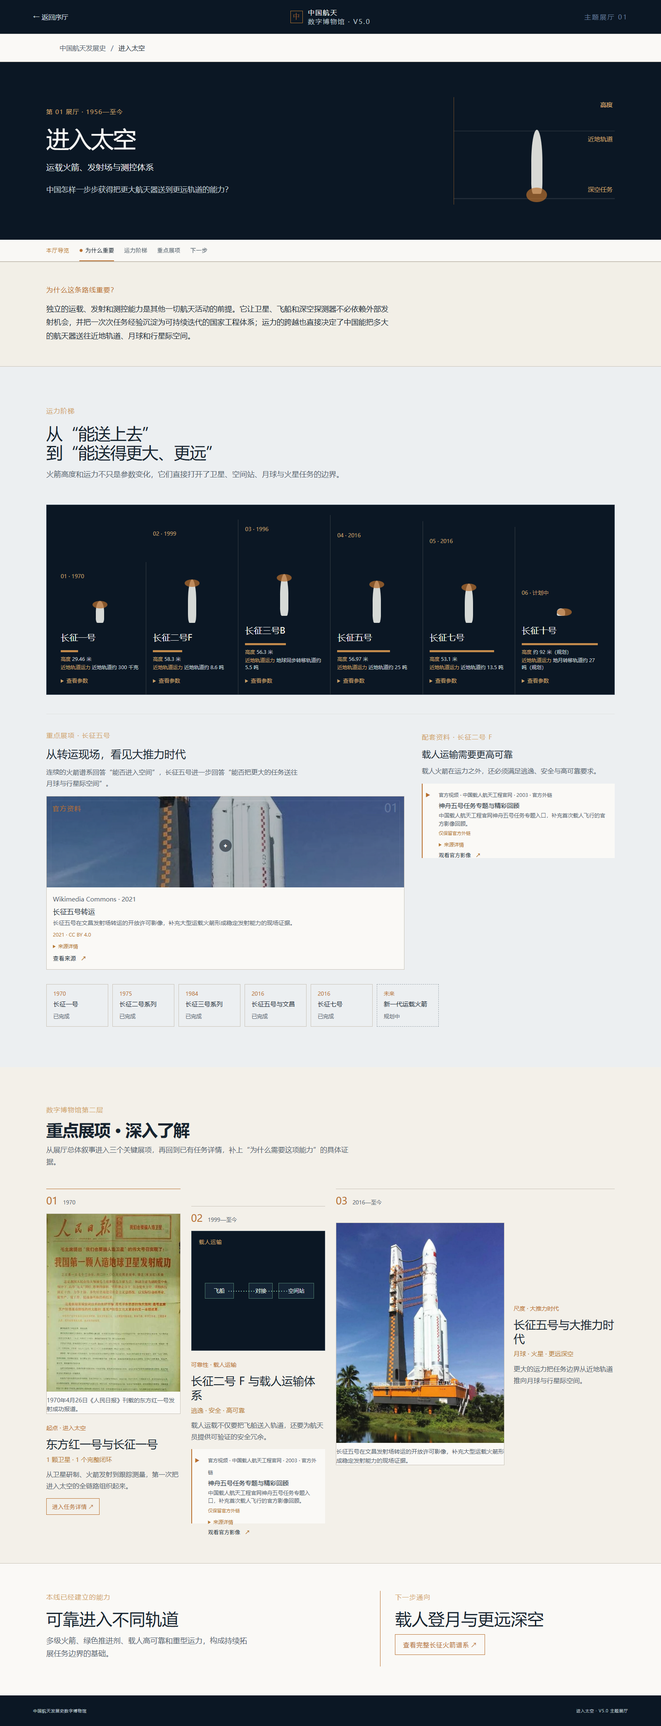
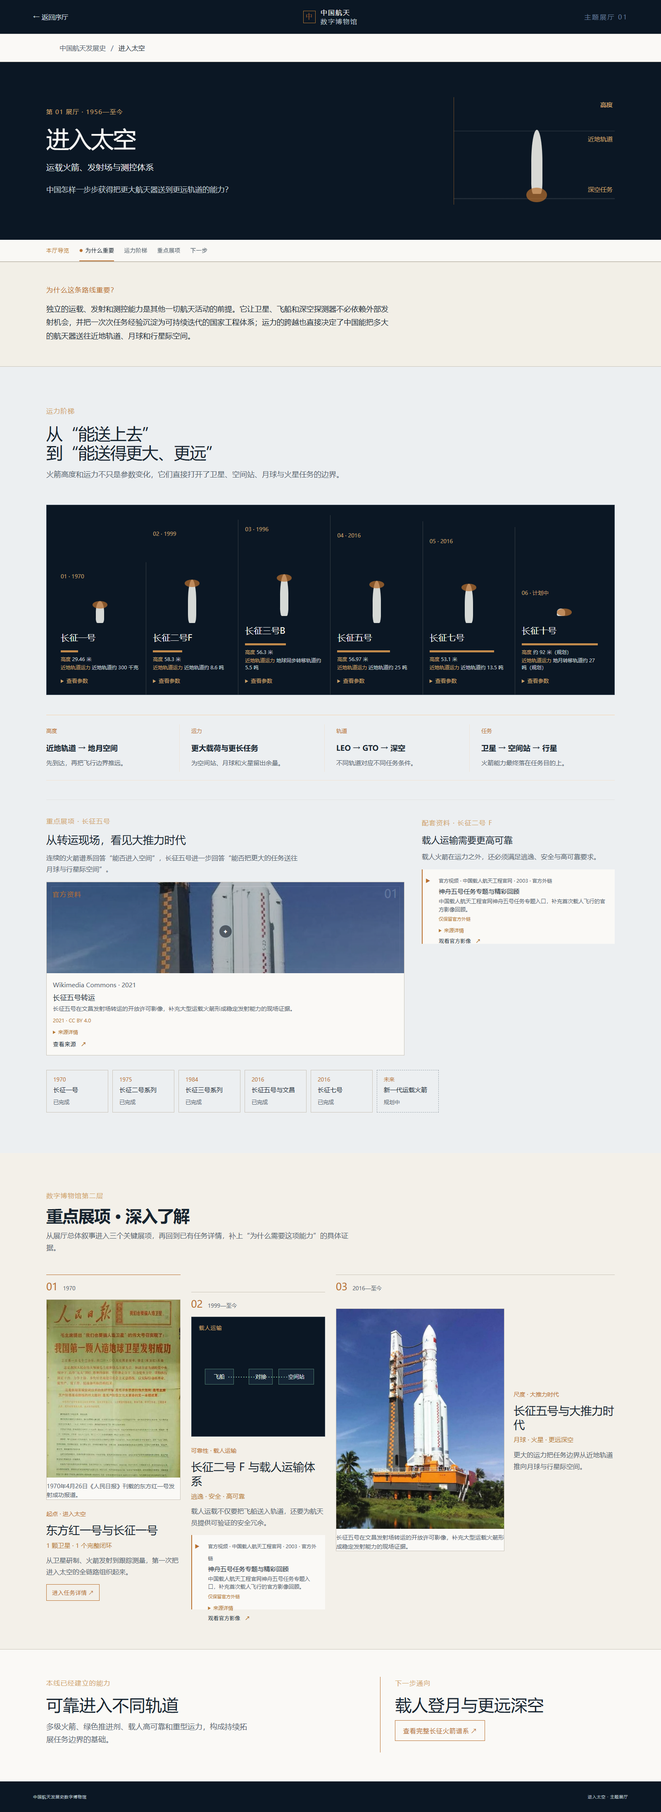
V5.0-RC3.1-PC：策展与内容深化

diff --git a/src/components/GrandHallStories/LaunchCapabilityStory.jsx b/src/components/GrandHallStories/LaunchCapabilityStory.jsx
@@ -12,10 +12,24 @@ export default function LaunchCapabilityStory({ hall, nodes, onOpenMission }) {
   const selected = featuredRockets.map((name) => rockets.find((rocket) => rocket.name === name)).filter(Boolean)
   return (
     <div className="story-page story-page--launch">
-      <header className="story-hero story-hero--launch" id="story-overview"><div className="story-hero-copy title-safe-area"><span className="section-kicker">第 {hall.index} 展厅 · {hall.period}</span><h1>{hall.name}</h1><p className="story-subtitle">{hall.subtitle}</p><p className="story-question">中国怎样一步步获得把更大航天器送到更远轨道的能力？</p></div><div className="story-hero-visual launch-hero-visual" aria-label="火箭高度与上升示意"><i /><b>高度</b><span>近地轨道</span><em>深空任务</em></div></header>
+      <header className="story-hero story-hero--launch" id="story-overview">
+        <div className="story-hero-copy title-safe-area"><span className="section-kicker">第 {hall.index} 展厅 · {hall.period}</span><h1>{hall.name}</h1><p className="story-subtitle">{hall.subtitle}</p><p className="story-question">中国怎样一步步获得把更大航天器送到更远轨道的能力？</p></div>
+        <div className="story-hero-visual launch-hero-visual" aria-label="火箭高度与上升示意"><i /><b>高度</b><span>近地轨道</span><em>深空任务</em></div>
+      </header>
       <StoryTour items={[{ id: 'story-why', label: '为什么重要' }, { id: 'launch-core', label: '运力阶梯' }, { id: 'deep-dive', label: '重点展项' }, { id: 'story-next', label: '下一步' }]} />
       <section className="story-why" id="story-why"><span className="section-kicker">为什么这条路线重要？</span><p>{hall.hallWhyItMatters}</p></section>
-      <section className="grand-story grand-story--launch" id="launch-core"><div className="story-heading"><span className="section-kicker">运力阶梯</span><h2>从“能送上去”<br />到“能送得更大、更远”</h2><p>火箭高度和运力不只是参数变化，它们直接打开了卫星、空间站、月球与火星任务的边界。</p></div><div className="launch-ladder">{selected.map((rocket, index) => <article className={`launch-step launch-step-${index + 1}`} key={rocket.name}><span>{String(index + 1).padStart(2, '0')} · {rocket.firstFlight}</span><div className="rocket-silhouette" style={{ '--rocket-height': `${Math.max(44, Math.min(175, Number.parseFloat(rocket.height) * 1.8))}px` }} aria-hidden="true" /><h3>{rocket.name}</h3><div className="payload-bar" style={{ '--payload-width': `${22 + index * 15}%` }} aria-label={`运力 ${rocket.payload}`} /><div className="launch-step-metrics" aria-label={`${rocket.name}关键参数`}><span className="launch-step-height">{rocket.height}</span><span className="launch-step-payload">{rocket.payload}</span></div><details className="launch-step-details"><summary>查看参数</summary><dl><div><dt>高度</dt><dd>{rocket.height}</dd></div><div><dt>运力</dt><dd>{rocket.payload}</dd></div><div><dt>代表任务</dt><dd>{rocket.missions.join(' · ')}</dd></div></dl></details></article>)}</div><div className="launch-support-media" id="launch-evidence"><div className="launch-support-copy"><span className="section-kicker">重点展项 · 长征五号</span><h3>从转运现场，看见大推力时代</h3><p>连续的火箭谱系回答“能否进入空间”，长征五号进一步回答“能否把更大的任务送往月球与行星际空间”。</p><StoryMedia ids={['open-long-march-5-rollout-2021']} mode="feature" color={hall.color} /></div><div className="launch-support-copy launch-support-copy--compact"><span className="section-kicker">配套资料 · 长征二号 F</span><h3>载人运输需要更高可靠</h3><p>载人火箭在运力之外，还必须满足逃逸、安全与高可靠要求。</p><StoryMedia ids={['media-human-shenzhou5-flight-review']} mode="compact" color={hall.color} /></div></div><div className="story-node-strip">{nodes.filter((node) => ['长征一号', '长征二号系列', '长征三号系列', '长征五号与文昌', '长征七号', '新一代运载火箭'].includes(node.name)).map((node) => <span className={`story-node story-node--${node.status}`} key={node.id}><b>{node.year}</b>{node.name}<em>{node.status === 'planned' ? '规划中' : '已完成'}</em></span>)}</div></section>
+      <section className="grand-story grand-story--launch" id="launch-core">
+        <div className="story-heading"><span className="section-kicker">运力阶梯</span><h2>从“能送上去”<br />到“能送得更大、更远”</h2><p>火箭高度和运力不只是参数变化，它们直接打开了卫星、空间站、月球与火星任务的边界。</p></div>
+        <div className="launch-ladder">{selected.map((rocket, index) => <article className={`launch-step launch-step-${index + 1}`} key={rocket.name}><span>{String(index + 1).padStart(2, '0')} · {rocket.firstFlight}</span><div className="rocket-silhouette" style={{ '--rocket-height': `${Math.max(44, Math.min(175, Number.parseFloat(rocket.height) * 1.8))}px` }} aria-hidden="true" /><h3>{rocket.name}</h3><div className="payload-bar" style={{ '--payload-width': `${22 + index * 15}%` }} aria-label={`运力 ${rocket.payload}`} /><div className="launch-step-metrics" aria-label={`${rocket.name}关键参数`}><span className="launch-step-height">{rocket.height}</span><span className="launch-step-payload">{rocket.payload}</span></div><details className="launch-step-details"><summary>查看参数</summary><dl><div><dt>高度</dt><dd>{rocket.height}</dd></div><div><dt>运力</dt><dd>{rocket.payload}</dd></div><div><dt>代表任务</dt><dd>{rocket.missions.join(' · ')}</dd></div></dl></details></article>)}</div>
+        <div className="launch-capability-chain" aria-label="运载能力如何改变任务边界">
+          <article><span>高度</span><strong>近地轨道 → 地月空间</strong><p>先到达，再把飞行边界推远。</p></article>
+          <article><span>运力</span><strong>更大载荷与更长任务</strong><p>为空间站、月球和火星留出余量。</p></article>
+          <article><span>轨道</span><strong>LEO → GTO → 深空</strong><p>不同轨道对应不同任务条件。</p></article>
+          <article><span>任务</span><strong>卫星 → 空间站 → 行星</strong><p>火箭能力最终落在任务目的上。</p></article>
+        </div>
+        <div className="launch-support-media" id="launch-evidence"><div className="launch-support-copy"><span className="section-kicker">重点展项 · 长征五号</span><h3>从转运现场，看见大推力时代</h3><p>连续的火箭谱系回答“能否进入空间”，长征五号进一步回答“能否把更大的任务送往月球与行星际空间”。</p><StoryMedia ids={['open-long-march-5-rollout-2021']} mode="feature" color={hall.color} /></div><div className="launch-support-copy launch-support-copy--compact"><span className="section-kicker">配套资料 · 长征二号 F</span><h3>载人运输需要更高可靠</h3><p>载人火箭在运力之外，还必须满足逃逸、安全与高可靠要求。</p><StoryMedia ids={['media-human-shenzhou5-flight-review']} mode="compact" color={hall.color} /></div></div>
+        <div className="story-node-strip">{nodes.filter((node) => ['长征一号', '长征二号系列', '长征三号系列', '长征五号与文昌', '长征七号', '新一代运载火箭'].includes(node.name)).map((node) => <span className={`story-node story-node--${node.status}`} key={node.id}><b>{node.year}</b>{node.name}<em>{node.status === 'planned' ? '规划中' : '已完成'}</em></span>)}</div>
+      </section>
       <DeepDiveSection variant="launch" layout="scale" hall={hall} onOpenMission={onOpenMission} items={[{ year: '1970', label: '起点 · 进入太空', title: '东方红一号与长征一号', metric: '1 颗卫星 · 1 个完整闭环', description: '从卫星研制、火箭发射到跟踪测量，第一次把进入太空的全链路组织起来。', assetId: 'curated-dongfanghong-1-news-1970', missionId: 'origin-one' }, { year: '1999—至今', label: '可靠性 · 载人运输', title: '长征二号 F 与载人运输体系', metric: '逃逸 · 安全 · 高可靠', description: '载人运载不仅要把飞船送入轨道，还要为航天员提供可验证的安全冗余。', diagram: 'rendezvous', diagramLabel: '载人运输', mediaIds: ['media-human-shenzhou5-flight-review'] }, { year: '2016—至今', label: '尺度 · 大推力时代', title: '长征五号与大推力时代', metric: '月球 · 火星 · 更远深空', description: '更大的运力把任务边界从近地轨道推向月球与行星际空间。', assetId: 'open-long-march-5-rollout-2021' }]} />
       <section className="story-tail story-tail--launch" id="story-next"><div><span className="section-kicker">本线已经建立的能力</span><h2>可靠进入不同轨道</h2><p>多级火箭、绿色推进剂、载人高可靠和重型运力，构成持续拓展任务边界的基础。</p></div><div className="story-tail-link"><span className="section-kicker">下一步通向</span><h2>载人登月与更远深空</h2><button type="button" onClick={() => setShowFullGallery((value) => !value)}>{showFullGallery ? '收起完整火箭谱系' : '查看完整长征火箭谱系'} ↗</button></div></section>
       {showFullGallery ? <div className="story-gallery-drawer"><RocketGallery /></div> : null}

diff --git a/src/components/GrandHallStories/PlanetaryScaleStory.jsx b/src/components/GrandHallStories/PlanetaryScaleStory.jsx
@@ -11,7 +11,13 @@ export default function PlanetaryScaleStory({ hall, nodes, missions, onOpenMissi
       <header className="story-hero story-hero--planetary" id="story-overview"><div className="story-hero-copy title-safe-area"><span className="section-kicker">第 {hall.index} 展厅 · {hall.period}</span><h1>{hall.name}</h1><p className="story-subtitle">{hall.subtitle}</p><p className="story-question">中国如何从地月空间，第一次跨入真正的行星际探测？</p></div><div className="story-hero-visual planetary-hero-visual" aria-label="地球到火星的尺度示意"><i /><span>地球</span><b>火星</b></div></header>
       <StoryTour items={[{ id: 'story-why', label: '为什么重要' }, { id: 'planetary-core', label: '行星际尺度' }, { id: 'deep-dive', label: '绕 · 落 · 巡' }, { id: 'story-next', label: '下一步' }]} />
       <section className="story-why" id="story-why"><span className="section-kicker">为什么这条路线重要？</span><p>{hall.hallWhyItMatters}</p></section>
-      <section className="grand-story grand-story--planetary" id="planetary-core"><div className="story-heading"><span className="section-kicker">行星际尺度</span><h2>离开地球，穿越<br />七个月级的行星际飞行</h2><p>这是一条概念尺度示意，非真实比例：距离拉远，通信时延增加，任务需要更多自主导航和环境判断。</p></div><div className="planetary-distance" aria-label="从地球到火星的概念距离示意"><div className="distance-earth"><i />地球</div><div className="distance-moon"><span />月球轨道</div><div className="distance-flight"><b>约七个月级</b><small>地火转移 · 中途修正 · 深空测控</small></div><div className="distance-mars"><i />火星</div><div className="distance-beyond">更远深空</div></div><div className="planetary-distance-note"><span>为什么不是直线？</span><p>行星持续运动，任务要等待发射窗口并沿转移轨道飞行；距离拉远后，指令往返时延也让祝融号必须自主判断。</p></div><div className="planetary-anchor-grid" id="planetary-evidence"><article><div><AssetMedia asset={getAssetById('curated-tianwen-206aa3f3bc23')} label="天问一号与火星合影" /><small className="story-media-meta">维基共享资源 / 中国国家航天局供图 · 2021 · 真实任务影像</small></div><div><span>绕 · 火星捕获</span><h3>天问一号</h3><p>完成从地火转移到火星环绕的深空导航。</p><StoryMedia ids={['open-tianwen1-launch-2020']} mode="feature" color={hall.color} /></div></article><article><div><AssetMedia asset={getAssetById('curated-tianwen-16526f52a3ea')} label="祝融号与着陆平台" /><small className="story-media-meta">公开任务影像 · 2021 · 火星表面影像</small></div><div><span>落 · 巡 · 火星表面工作</span><h3>祝融号</h3><p>在乌托邦平原着陆并开展巡视探测。</p><StoryMedia ids={['media-planetary-tianwen-landing-series']} mode="inline" color={hall.color} /><StoryMedia ids={['media-zhurong-motion']} mode="inline" color={hall.color} /></div></article></div>{mission ? <button className="story-mission-link" type="button" onClick={() => onOpenMission(mission.id)}>进入天问一号任务现场 ↗</button> : null}<div className="planetary-future">{nodes.filter((node) => node.status === 'planned').map((node) => <span className="story-node story-node--planned" key={node.id}><b>{node.year}</b>{node.name}<em>规划中</em></span>)}</div></section>
+      <section className="grand-story grand-story--planetary" id="planetary-core">
+        <div className="story-heading"><span className="section-kicker">行星际尺度</span><h2>离开地球，穿越<br />七个月级的行星际飞行</h2><p>这是一条概念尺度示意，非真实比例：距离拉远，通信时延增加，任务需要更多自主导航和环境判断。</p></div>
+        <div className="planetary-distance" aria-label="从地球到火星的概念距离示意"><div className="distance-earth"><i />地球</div><div className="distance-moon"><span />月球轨道</div><div className="distance-flight"><b>约七个月级</b><small>地火转移 · 中途修正 · 深空测控</small></div><div className="distance-mars"><i />火星</div><div className="distance-beyond">更远深空</div></div>
+        <div className="planetary-distance-note"><span>为什么不是直线？</span><p>行星持续运动，任务要等待发射窗口并沿转移轨道飞行；距离拉远后，指令往返时延也让祝融号必须自主判断。</p></div>
+        <div className="planetary-engineering-chain" aria-label="距离带来的三种工程变化"><article><span>发射窗口</span><strong>等待合适的几何位置</strong><p>任务出发时间由地球与火星的相对位置决定。</p></article><article><span>通信时延</span><strong>指令不能实时往返</strong><p>地面需要把计划、规则和边界提前交给探测器。</p></article><article><span>自主运行</span><strong>在现场完成判断</strong><p>导航、避障、状态管理成为任务本身的一部分。</p></article></div>
+        <div className="planetary-anchor-grid" id="planetary-evidence"><article><div><AssetMedia asset={getAssetById('curated-tianwen-206aa3f3bc23')} label="天问一号与火星合影" /><small className="story-media-meta">维基共享资源 / 中国国家航天局供图 · 2021 · 真实任务影像</small></div><div><span>绕 · 火星捕获</span><h3>天问一号</h3><p>完成从地火转移到火星环绕的深空导航。</p><StoryMedia ids={['open-tianwen1-launch-2020']} mode="feature" color={hall.color} /></div></article><article><div><AssetMedia asset={getAssetById('curated-tianwen-16526f52a3ea')} label="祝融号与着陆平台" /><small className="story-media-meta">公开任务影像 · 2021 · 火星表面影像</small></div><div><span>落 · 巡 · 火星表面工作</span><h3>祝融号</h3><p>在乌托邦平原着陆并开展巡视探测。</p><StoryMedia ids={['media-planetary-tianwen-landing-series']} mode="inline" color={hall.color} /><StoryMedia ids={['media-zhurong-motion']} mode="inline" color={hall.color} /></div></article></div>{mission ? <button className="story-mission-link" type="button" onClick={() => onOpenMission(mission.id)}>进入天问一号任务现场 ↗</button> : null}<div className="planetary-future">{nodes.filter((node) => node.status === 'planned').map((node) => <span className="story-node story-node--planned" key={node.id}><b>{node.year}</b>{node.name}<em>规划中</em></span>)}</div>
+      </section>
       <DeepDiveSection variant="planetary" layout="distance" hall={hall} onOpenMission={onOpenMission} items={[{ year: '2020—2021', label: '绕 · 地火转移', title: '天问一号：绕、着、巡', metric: '一次任务完成三步', description: '在更远距离和更长时延条件下，完成转移、捕获、着陆与巡视的连续任务。', assetId: 'curated-tianwen-206aa3f3bc23', mediaIds: ['media-planetary-tianwen-landing-series'], missionId: 'tianwen' }, { year: '2021', label: '巡 · 火星表面工作', title: '祝融号', metric: '自主巡视 · 环境探测', description: '火星车需要在通信间歇中完成移动、避障、观测和状态判断。', assetId: 'curated-tianwen-16526f52a3ea', mediaIds: ['media-zhurong-motion'] }, { year: '下一阶段', label: '距离 · 自主 · 深空测控', title: '下一阶段行星际探索', metric: '更远目标 · 更长等待', description: '小行星、火星采样返回和更远太阳系任务，将把自主导航与深空测控推向更长时间尺度。', diagram: 'deep-space', diagramLabel: '从地月到行星际', mediaIds: ['official-tianwen-science-images-2021'] }]} />
       <section className="story-tail story-tail--planetary" id="story-next"><div><span className="section-kicker">本线已经建立的能力</span><h2>一次任务完成绕、落、巡</h2></div><div><span className="section-kicker">下一站在哪里</span><p>小行星、火星采样返回，以及更远的太阳系。</p></div></section>
     </div>

diff --git a/src/components/GrandHallStories/LunarExplorationStory.jsx b/src/components/GrandHallStories/LunarExplorationStory.jsx
@@ -13,7 +13,13 @@ export default function LunarExplorationStory({ hall, nodes, missions, onOpenMis
       <header className="story-hero story-hero--lunar" id="story-overview"><div className="story-hero-copy title-safe-area"><span className="section-kicker">第 {hall.index} 展厅 · {hall.period}</span><h1>{hall.name}</h1><p className="story-subtitle">{hall.subtitle}</p><p className="story-question">中国怎样一步一步掌握月球探测能力？</p></div><div className="story-hero-visual lunar-hero-visual" aria-label="地球与月球示意"><i>地球</i><span /><b>月球</b></div></header>
       <StoryTour items={[{ id: 'story-why', label: '为什么重要' }, { id: 'lunar-core', label: '绕 · 落 · 回' }, { id: 'deep-dive', label: '月背与返回' }, { id: 'story-next', label: '下一步' }]} />
       <section className="story-why" id="story-why"><span className="section-kicker">为什么这条路线重要？</span><p>{hall.hallWhyItMatters}</p></section>
-      <section className="grand-story grand-story--lunar" id="lunar-core"><div className="story-heading"><span className="section-kicker">主能力路线</span><h2>绕 → 落 → 回，<br />月背从侧面突破</h2><p>月球探测不是四个并列目标，而是一条逐步增加难度的能力链；月背探测则在中继通信和自主控制上打开新的侧支。</p></div><div className="lunar-main-route">{stages.map(([stage, title, year, description, mediaId]) => <article key={stage}><b>{stage}</b><span /><time>{year}</time><h3>{title}</h3><p>{description}</p>{mediaId ? <StoryMedia ids={[mediaId]} mode="inline" color={hall.color} /> : null}</article>)}<div className="lunar-side-branch" id="lunar-evidence"><span>月背突破</span><strong>嫦娥四号 · 首次月背软着陆</strong><StoryMedia ids={['media-lunar-change6-sample-process']} mode="inline" color={hall.color} /><strong>嫦娥六号 · 首次月背采样返回</strong></div></div><div className="lunar-images"><div><AssetMedia asset={getAssetById('collected-chang-e-350bd2395f82')} label="嫦娥四号月球背面全景影像" /><small className="story-media-meta">公开任务影像 · 2019 · 月背全景</small></div><div><AssetMedia asset={getAssetById('asset-change-6')} label="嫦娥六号月背采样任务现场" /><small className="story-media-meta">中国国家航天局 · 2024 · 真实任务影像</small></div></div><div className="lunar-future-path"><span>2024</span><b>嫦娥六号</b><i /><span>未来</span><strong>嫦娥七号 · 嫦娥八号 · 国际月球科研站</strong></div>{mission ? <button className="story-mission-link" type="button" onClick={() => onOpenMission(mission.id)}>进入嫦娥任务档案 ↗</button> : null}<div className="story-node-strip">{nodes.filter((node) => ['嫦娥一号', '嫦娥三号', '嫦娥四号', '嫦娥五号', '嫦娥六号'].includes(node.name)).map((node) => <span className="story-node" key={node.id}><b>{node.year}</b>{node.name}</span>)}</div></section>
+      <section className="grand-story grand-story--lunar" id="lunar-core">
+        <div className="story-heading"><span className="section-kicker">主能力路线</span><h2>绕 → 落 → 回，<br />月背从侧面突破</h2><p>月球探测不是四个并列目标，而是一条逐步增加难度的能力链；月背探测则在中继通信和自主控制上打开新的侧支。</p></div>
+        <div className="lunar-main-route">{stages.map(([stage, title, year, description, mediaId]) => <article key={stage}><b>{stage}</b><span /><time>{year}</time><h3>{title}</h3><p>{description}</p>{mediaId ? <StoryMedia ids={[mediaId]} mode="inline" color={hall.color} /> : null}</article>)}<div className="lunar-side-branch" id="lunar-evidence"><span>月背突破</span><strong>嫦娥四号 · 首次月背软着陆</strong><StoryMedia ids={['media-lunar-change6-sample-process']} mode="inline" color={hall.color} /><strong>嫦娥六号 · 首次月背采样返回</strong></div></div>
+        <div className="lunar-sample-note"><span>2024 · 嫦娥六号</span><strong>从月球背面带回 1935.3 克样品</strong><p>月背没有直视地球的通信条件，鹊桥中继、采样封装、月面起飞和月轨交会共同完成了这次返回。</p><a href="https://www.cnsa.gov.cn/n6758823/n6758844/n10518102/n10518157/c10570691/content.html" target="_blank" rel="noreferrer">中国国家航天局 · 任务资料 ↗</a></div>
+        <div className="lunar-images"><div><AssetMedia asset={getAssetById('collected-chang-e-350bd2395f82')} label="嫦娥四号月球背面全景影像" /><small className="story-media-meta">公开任务影像 · 2019 · 月背全景</small></div><div><AssetMedia asset={getAssetById('asset-change-6')} label="嫦娥六号月背采样任务现场" /><small className="story-media-meta">中国国家航天局 · 2024 · 真实任务影像</small></div></div>
+        <div className="lunar-future-path"><span>2024</span><b>嫦娥六号</b><i /><span>未来</span><strong>嫦娥七号 · 嫦娥八号 · 国际月球科研站</strong></div>{mission ? <button className="story-mission-link" type="button" onClick={() => onOpenMission(mission.id)}>进入嫦娥任务档案 ↗</button> : null}<div className="story-node-strip">{nodes.filter((node) => ['嫦娥一号', '嫦娥三号', '嫦娥四号', '嫦娥五号', '嫦娥六号'].includes(node.name)).map((node) => <span className="story-node" key={node.id}><b>{node.year}</b>{node.name}</span>)}</div>
+      </section>
       <DeepDiveSection variant="lunar" layout="route" hall={hall} onOpenMission={onOpenMission} items={[{ year: '2007', label: '绕 · 获取全球月面', title: '嫦娥一号：绕', metric: '进入绕月轨道', description: '先把月球看完整，建立地月转移、月球捕获和绕月遥感的第一段能力。', assetId: 'collected-chang-e-b13ef29ef990', missionId: 'chang-e', mediaIds: ['media-change5-topic'] }, { year: '2013—2019', label: '落 · 月背需要中继', title: '嫦娥三 / 四号：落与月背', metric: '软着陆 · 巡视 · 中继通信', description: '月背无法直接看到地球，鹊桥中继让着陆器、巡视器与地面保持通信链路。', assetId: 'collected-chang-e-350bd2395f82', mediaIds: ['media-lunar-change6-sample-process'] }, { year: '2020—2024', label: '回 · 采样返回', title: '嫦娥五 / 六号：采样返回', metric: '世界首次月背采样返回', description: '采样、起飞、月轨交会与返回把月面操作推进到完整的地外往返任务。', assetId: 'asset-change-6', mediaIds: ['media-lunar-change6-sample-process'], missionId: 'chang-e' }]} />
       <section className="story-tail story-tail--lunar" id="story-next"><div><span className="section-kicker">本线已经建立的能力</span><h2>从月球探测到月球科研站</h2></div><div><span className="section-kicker">下一步通向</span><p>持续探测月球南极，并为载人登月积累能力。</p></div></section>
     </div>

diff --git a/src/e3.css b/src/e3.css
@@ -462,3 +462,74 @@ button:focus-visible, a:focus-visible { outline-color: var(--museum-bronze); }
   .launch-step-metrics .launch-step-height::before { content: '高度  '; }
   .launch-step-metrics .launch-step-payload::before { content: '近地轨道运力  '; }
 }
+
+/* V5.0-RC3.1-PC：内容与策展深化，只调整 1600px 桌面展陈。 */
+@media (min-width: 801px) {
+  .museum-prologue {
+    display: grid;
+    grid-template-columns: minmax(300px, .85fr) minmax(0, 1.55fr);
+    gap: 7vw;
+    padding: 92px 7vw 88px;
+    border-top: 1px solid var(--museum-line);
+    background: var(--museum-paper-alt);
+    color: var(--museum-ink);
+  }
+  .prologue-heading h2 { margin: 18px 0 0; font-size: clamp(34px, 3.2vw, 50px); line-height: 1.18; letter-spacing: -.045em; font-weight: 500; }
+  .prologue-register { display: grid; grid-template-columns: repeat(2, minmax(0, 1fr)); column-gap: 34px; }
+  .prologue-register article { min-height: 157px; padding: 6px 20px 20px 0; border-top: 1px solid var(--museum-line); }
+  .prologue-register time { color: var(--museum-bronze); font: 14px 'DM Mono'; }
+  .prologue-register h3 { margin: 15px 0 8px; color: var(--museum-ink); font-size: 21px; font-weight: 500; }
+  .prologue-register p { margin: 0; color: var(--museum-ink-soft); font-size: 16px; line-height: 1.7; }
+
+  .timeline-section--compact .timeline-compact-grid article[data-emphasis="major"] { min-height: 190px; padding-top: 29px; border-top: 2px solid var(--museum-bronze); background: #F7F3EB !important; }
+  .timeline-section--compact .timeline-compact-grid article[data-emphasis="major"] time { font-size: 16px; font-weight: 600; }
+  .timeline-section--compact .timeline-compact-grid article[data-emphasis="major"] h3 { margin-top: 15px; font-size: clamp(23px, 1.7vw, 29px); font-weight: 600; }
+  .timeline-section--compact .timeline-compact-grid article[data-emphasis="supporting"] { min-height: 140px; padding-top: 25px; opacity: .72; }
+  .timeline-section--compact .timeline-compact-grid article[data-emphasis="supporting"] h3 { font-size: 18px; }
+
+  .tech-section--compact .tech-tree { gap: 28px; }
+  .tech-section--compact .tech-branch { min-height: 190px; }
+  .tech-section--compact .tech-branch h3 { margin-bottom: 10px; }
+  .tech-section--compact .branch-relation { display: block; margin-top: 15px; color: #D0A46A; font-size: 13px; line-height: 1.55; }
+  .tech-section--compact .branch-arrow { opacity: .75; }
+
+  .satellite-use-cases { display: grid; grid-template-columns: repeat(3, minmax(0, 1fr)); margin-top: 56px; border-top: 1px solid rgba(98,214,255,.5); border-bottom: 1px solid rgba(98,214,255,.28); }
+  .satellite-use-cases article { min-height: 245px; padding: 25px 28px 26px 0; border-right: 1px solid rgba(98,214,255,.2); }
+  .satellite-use-cases article + article { padding-left: 28px; }
+  .satellite-use-cases article:last-child { border-right: 0; }
+  .satellite-use-cases article > span { color: var(--hall-satellite); font: 13px 'DM Mono'; letter-spacing: .06em; }
+  .satellite-use-cases h3 { margin: 22px 0 14px; color: var(--museum-ink); font-size: 29px; font-weight: 500; line-height: 1.2; }
+  .satellite-use-cases strong { color: var(--museum-ink); font-size: 18px; font-weight: 600; }
+  .satellite-use-cases p { margin: 12px 0 0; color: var(--museum-ink-soft); font-size: 16px; line-height: 1.75; }
+  .satellite-use-case-note { margin: 24px 0 0; color: var(--museum-ink-soft); font-size: 15px; line-height: 1.7; }
+  .satellite-use-case-note b { color: var(--museum-ink); font-weight: 500; }
+  .satellite-use-case-note span { padding: 0 9px; color: #62D6FF; }
+
+  .launch-capability-chain { display: grid; grid-template-columns: repeat(4, minmax(0, 1fr)); gap: 28px; margin: 48px 0 8px; padding: 22px 0 20px; border-top: 1px solid rgba(255,177,92,.45); border-bottom: 1px solid rgba(255,177,92,.2); }
+  .launch-capability-chain article { min-height: 115px; padding-right: 20px; border-right: 1px solid rgba(255,177,92,.18); }
+  .launch-capability-chain article:last-child { border-right: 0; }
+  .launch-capability-chain span { color: var(--hall-launch); font: 13px 'DM Mono'; }
+  .launch-capability-chain strong { display: block; margin-top: 13px; color: var(--museum-ink); font-size: 18px; font-weight: 600; }
+  .launch-capability-chain p { margin: 9px 0 0; color: var(--museum-ink-soft); font-size: 15px; line-height: 1.6; }
+
+  .human-people-strip { display: grid; grid-template-columns: repeat(3, minmax(0, 1fr)); gap: 26px; margin-top: 42px; padding-top: 22px; border-top: 1px solid rgba(117,230,195,.4); }
+  .human-people-strip > div { padding-right: 24px; border-right: 1px solid rgba(117,230,195,.2); }
+  .human-people-strip > div:last-child { border-right: 0; }
+  .human-people-strip span { color: var(--hall-human); font: 13px 'DM Mono'; }
+  .human-people-strip strong { display: block; margin-top: 12px; color: var(--museum-ink); font-size: 27px; font-weight: 500; }
+  .human-people-strip p { margin: 8px 0 0; color: var(--museum-ink-soft); font-size: 15px; line-height: 1.65; }
+
+  .lunar-sample-note { display: grid; grid-template-columns: 180px minmax(0, 1fr); column-gap: 24px; margin-top: 42px; padding: 22px 0 20px; border-top: 1px solid rgba(180,140,255,.5); border-bottom: 1px solid rgba(180,140,255,.2); }
+  .lunar-sample-note > span { color: #C8B6EA; font: 13px 'DM Mono'; }
+  .lunar-sample-note strong { color: var(--museum-ink); font-size: 22px; font-weight: 600; }
+  .lunar-sample-note p { grid-column: 2; margin: 9px 0 0; color: var(--museum-ink-soft); font-size: 16px; line-height: 1.7; }
+  .lunar-sample-note a { grid-column: 2; width: fit-content; margin-top: 12px; color: #C8B6EA; font-size: 13px; text-decoration: none; }
+  .lunar-sample-note a:hover, .lunar-sample-note a:focus-visible { text-decoration: underline; }
+
+  .planetary-engineering-chain { display: grid; grid-template-columns: repeat(3, minmax(0, 1fr)); gap: 28px; margin-top: 42px; padding-top: 22px; border-top: 1px solid rgba(255,113,141,.42); }
+  .planetary-engineering-chain article { min-height: 145px; padding-right: 24px; border-right: 1px solid rgba(255,113,141,.18); }
+  .planetary-engineering-chain article:last-child { border-right: 0; }
+  .planetary-engineering-chain span { color: var(--hall-planetary); font: 13px 'DM Mono'; }
+  .planetary-engineering-chain strong { display: block; margin-top: 13px; color: var(--museum-ink); font-size: 20px; font-weight: 600; }
+  .planetary-engineering-chain p { margin: 9px 0 0; color: var(--museum-ink-soft); font-size: 15px; line-height: 1.7; }
+}

diff --git a/src/components/GrandHallStories/HumanSpaceflightStory.jsx b/src/components/GrandHallStories/HumanSpaceflightStory.jsx
@@ -19,6 +19,11 @@ export default function HumanSpaceflightStory({ hall, nodes, missions, onOpenMis
         <div className="story-heading"><span className="section-kicker">载人航天三章</span><h2>从把人送上去，<br />到让人在轨道上工作</h2><p>载人航天的进步，体现在任务持续时间、空间活动复杂度和轨道生活能力的连续增加。</p></div>
         <div className="human-chapters"><article><span>第一章 · 1992—2002</span><h3>无人验证</h3><p>先让飞船完成发射、返回和系统可靠性验证，再把人员安全交给完整系统。</p><b>神舟一号—四号</b></article><article className="human-chapter-feature" id="human-evidence"><div><AssetMedia asset={getAssetById('curated-shenzhou5-yang-liwei-2003')} label="杨利伟在神舟五号飞船内" /><small className="story-media-meta">中国新闻社 · 2003 · 真实任务影像</small><StoryMedia ids={['media-human-shenzhou5-flight-review']} mode="inline" color={hall.color} /></div><div><span>第二章 · 2003—2016</span><h3>人进入太空</h3><p>神舟五号首次载人，神舟七号实现出舱，天宫目标飞行器与飞船完成交会对接，验证完整载人飞行闭环。</p>{shenzhou ? <button type="button" onClick={() => onOpenMission(shenzhou.id)}>进入神舟五号任务档案 ↗</button> : null}</div></article><article className="human-chapter-station"><div><AssetMedia asset={getAssetById('curated-tiangong-0e4562ea9470')} label="中国空间站完整组合体" /><small className="story-media-meta">新华社 · 2022—至今 · 真实任务影像</small></div><div><AssetMedia asset={getAssetById('collected-tiangong-754c526f7813')} label="问天实验舱舱内工作场景" /><small className="story-media-meta">公开展品资料 · 2022 · 在轨工作影像</small><StoryMedia ids={['media-human-space-station-video-hub']} mode="inline" color={hall.color} /></div><div><span>第三章 · 2021—至今</span><h3>轨道家园</h3><p>空间站支持长期生活、长期工作和长期实验，把居住、维修、补给与空间科学实验纳入长期运营。</p>{station ? <button type="button" onClick={() => onOpenMission(station.id)}>进入中国空间站任务档案 ↗</button> : null}</div></article></div>
         <div className="human-stage-strip">{nodes.filter((node) => ['神舟五号', '神舟七号', '天宫一号', '天和、问天、梦天', '长期运营'].includes(node.name)).map((node) => <span key={node.id}><b>{node.year}</b>{node.name}</span>)}</div>
+        <div className="human-people-strip" aria-label="与能力节点直接相关的航天员">
+          <div><span>2003 · 首次载人</span><strong>杨利伟</strong><p>神舟五号航天员，中国首次载人航天飞行。</p></div>
+          <div><span>2008 · 首次出舱</span><strong>翟志刚</strong><p>神舟七号航天员，完成中国航天员首次空间出舱。</p></div>
+          <div><span>空间站时代</span><strong>景海鹏</strong><p>多次执行载人飞行任务，见证从短时飞行到长期驻留。</p></div>
+        </div>
       </section>
       <DeepDiveSection variant="human" layout="chapters" hall={hall} onOpenMission={onOpenMission} items={[{ year: '2003', label: '人物 · 首次载人', title: '神舟五号', metric: '21 小时 23 分 · 绕地 14 圈', description: '杨利伟的首次飞行验证了人、船、火箭、测控和返回系统如何共同工作。', assetId: 'curated-shenzhou5-yang-liwei-2003', missionId: 'shenzhou5' }, { year: '2011—2017', label: '阶段 · 交会对接', title: '从靠近到连接', metric: '目标飞行器 · 空间实验室', description: '交会对接把短时飞行变成可扩展的空间设施，为空间站组装和补给建立接口。', diagram: 'rendezvous', diagramLabel: '交会对接', mediaIds: ['media-station-configurations'] }, { year: '2022—至今', label: '生活 · 工作 · 实验', title: '中国空间站', metric: '长期有人驻留', description: '空间站把居住、维修、补给和空间科学实验整合为持续运行的轨道平台。', assetId: 'curated-tiangong-0e4562ea9470', missionId: 'tiangong' }]} />
       <section className="story-tail story-tail--human" id="story-next"><div><span className="section-kicker">本线已经建立的能力</span><h2>长期有人照料的轨道平台</h2></div><div><span className="section-kicker">下一步通向</span><p>从空间站走向载人月球。</p></div></section>

diff --git a/src/components/GrandHallStories/SatelliteNetworkStory.jsx b/src/components/GrandHallStories/SatelliteNetworkStory.jsx
@@ -17,8 +17,13 @@ export default function SatelliteNetworkStory({ hall, nodes, missions, onOpenMis
       <StoryTour items={[{ id: 'story-why', label: '为什么重要' }, { id: 'satellite-core', label: '天基网络' }, { id: 'deep-dive', label: '重点展项' }, { id: 'story-next', label: '下一步' }]} />
       <section className="story-why" id="story-why"><span className="section-kicker">为什么这条路线重要？</span><p>{hall.hallWhyItMatters}</p></section>
       <section className="grand-story grand-story--satellite" id="satellite-core">
-        <div className="story-heading"><span className="section-kicker">卫星应用网络</span><h2>从单颗卫星，<br />到多系统协同</h2><p>天基能力逐步覆盖通信、气象、遥感、导航、资源和高分辨率对地观测，成为社会运行的空间基础设施。</p></div>
-        <div className="satellite-network"><div className="satellite-core"><span>中国<br />天基系统</span><i /></div>{applications.map((application, index) => <div className={`satellite-orbit satellite-orbit-${index + 1}`} key={application}><span className="satellite-link" /><b>{application}</b></div>)}</div>
+        <div className="story-heading"><span className="section-kicker">卫星应用网络</span><h2>先问三个问题，<br />再看卫星怎样工作。</h2><p>天基系统的价值不在于星座图本身，而在于它持续把观测、定位和通信数据送到地面，变成可以依赖的社会服务。</p></div>
+        <div className="satellite-use-cases" aria-label="卫星应用进入日常生活的三个问题">
+          <article><span>01 · 导航</span><h3>我在哪里？</h3><strong>北斗三号</strong><p>定位、导航与授时进入交通、农业、测绘和应急系统。</p></article>
+          <article><span>02 · 气象</span><h3>天气正在发生什么？</h3><strong>风云卫星</strong><p>连续观测云图、台风和天气变化，让预报与灾害响应有了共同的天空视野。</p></article>
+          <article><span>03 · 遥感</span><h3>从太空能看清什么？</h3><strong>高分工程</strong><p>对地观测把土地、海洋和灾害变化转化为可分析的数据。</p></article>
+        </div>
+        <p className="satellite-use-case-note"><b>卫星</b><span>→</span><b>数据</b><span>→</span><b>服务与决策</b>　空间能力由此进入日常生活。</p>
         <div className="satellite-origin-card"><div><AssetMedia asset={getAssetById('curated-dongfanghong-1-news-1970')} label="东方红一号历史报道" /><small className="story-media-meta">《人民日报》 · 1970 · 历史档案</small></div><div><span className="section-kicker">1970 · 中国天基能力起点</span><h3>东方红一号</h3><p>从第一颗人造地球卫星开始，空间能力逐步进入国家治理、产业和日常生活。</p>{origin ? <button type="button" onClick={() => onOpenMission(origin.id)}>从东方红一号看起 ↗</button> : null}</div></div>
         <div className="satellite-evidence-grid" id="satellite-evidence"><article><b>导航 · 我在哪里？</b><strong>北斗三号</strong><span>定位、导航、授时进入交通与应急系统。</span><StoryMedia ids={['official-beidou-3-constellation-2020']} mode="compact" color={hall.color} /></article><article><b>气象 · 天气正在发生什么？</b><strong>风云卫星</strong><span>持续观测云图、台风和天气变化。</span><StoryMedia ids={['official-fy4a-cloud-image-2017']} mode="compact" color={hall.color} /></article><article><b>遥感 · 从太空能看清什么？</b><strong>高分工程</strong><span>高分辨率对地观测服务国土与资源管理。</span><StoryMedia ids={['open-gaofen-3-radar-images-2022']} mode="feature" color={hall.color} /></article></div>
         <div className="story-node-strip">{nodes.filter((node) => ['东方红一号', '返回式卫星', '风云气象卫星', '资源与海洋卫星', '高分工程', '北斗三号'].includes(node.name)).map((node) => <span className="story-node" key={node.id}><b>{node.year}</b>{node.name}</span>)}</div>

diff --git a/src/components/TechTree/TechTree.jsx b/src/components/TechTree/TechTree.jsx
@@ -1,3 +1,20 @@
-const branches = ['运载', '测控', '导航', '材料与制造', '空间科学']
-const summaries = ['把航天器送往不同轨道', '让任务跨越距离可靠运行', '提供定位、授时与协同', '支撑更轻、更强、更耐久', '把在轨与深空变成实验室']
-export default function TechTree({ compact = false }) { return <section className={`tech-section ${compact ? 'tech-section--compact' : ''}`}><div className="section-heading"><span className="section-kicker">共同技术底座 · 五大方向</span><h2>{compact ? '一项能力，支撑多条主线。' : '技术发展树'}</h2><p>{compact ? '运载、测控、导航、材料制造与空间科学共同托举中国航天的持续发展。' : '每一项突破，都是下一次远征的起点。'}</p></div><div className="tech-tree">{branches.map((branch, i) => <div className="tech-branch" key={branch}><span className="branch-node">0{i + 1}</span><div><h3>{branch}</h3><p>{summaries[i]}</p></div><span className="branch-arrow">→</span></div>)}</div></section> }
+const branches = [
+  ['运载', '把航天器送往不同轨道', '连接五条发展主线'],
+  ['测控', '让任务跨越距离可靠运行', '支撑载人、探月与行星际'],
+  ['导航', '提供定位、授时与协同', '让卫星应用进入日常生活'],
+  ['材料与制造', '支撑更轻、更强、更耐久', '把设计变成可工作的航天器'],
+  ['空间科学', '把在轨与深空变成实验室', '把工程能力转化为科学问题'],
+]
+
+export default function TechTree({ compact = false }) {
+  return <section className={`tech-section ${compact ? 'tech-section--compact' : ''}`}>
+    <div className="section-heading"><span className="section-kicker">共同技术底座 · 五大方向</span><h2>{compact ? '一项能力，支撑多条主线。' : '技术发展树'}</h2><p>{compact ? '它们不是五张并列名片，而是随着任务边界一起生长的基础能力。' : '每一项突破，都是下一次远征的起点。'}</p></div>
+    <div className="tech-tree" aria-label="共同技术底座五个方向">
+      {branches.map(([branch, summary, relation], i) => <div className="tech-branch" key={branch}>
+        <span className="branch-node">0{i + 1}</span>
+        <div><h3>{branch}</h3><p>{summary}</p><small className="branch-relation">{relation}</small></div>
+        <span className="branch-arrow" aria-hidden="true">→</span>
+      </div>)}
+    </div>
+  </section>
+}

diff --git a/src/App.jsx b/src/App.jsx
@@ -83,7 +83,7 @@ export default function App() {
           <span>中国航天<br /><em>数字博物馆</em></span>
         </div>
         <div className="topbar-status-group">
-          <div className="status"><span className="status-dot" />数字展览 · V5.0</div>
+          <div className="status"><span className="status-dot" />序厅 · 展览开放中</div>
           <a className="online-link" href="https://happydayily.github.io/China-Space-Museum/" target="_blank" rel="noreferrer">在线展馆 ↗</a>
         </div>
         <button className="enter-button" onClick={() => document.getElementById('halls')?.scrollIntoView({ behavior: 'smooth' })}>
@@ -108,11 +108,24 @@ export default function App() {
         <DevelopmentLines onEnter={openGrandHall} />
       </section>
 
+      <section className="museum-prologue" aria-labelledby="prologue-heading">
+        <div className="prologue-heading">
+          <span className="section-kicker">入馆导言 · 先看尺度如何改变</span>
+          <h2 id="prologue-heading">一部航天史，<br />也是一部能力不断外扩的历史。</h2>
+        </div>
+        <div className="prologue-register">
+          <article><time>1956</time><h3>建立国家体系</h3><p>从总体设计、试验到组织协同，航天事业开始拥有自己的起点。</p></article>
+          <article><time>1970</time><h3>进入地球轨道</h3><p>东方红一号让“进入太空”从目标变成可重复的工程能力。</p></article>
+          <article><time>2003</time><h3>把人送入太空</h3><p>神舟五号把火箭、飞船、测控、生命保障和安全返回连成闭环。</p></article>
+          <article><time>2024</time><h3>触及月球背面</h3><p>嫦娥六号完成月背采样返回，探测尺度继续向地月之外延伸。</p></article>
+        </div>
+      </section>
+
       <Timeline compact />
       <TechTree compact />
       <footer className="footer">
         <span>中国航天发展史数字博物馆</span>
-        <span>愿人类探索永无止境 · V5.0</span>
+        <span>愿人类探索永无止境</span>
       </footer>
     </main>
   )

diff --git a/src/pages/GrandHallPage/GrandHallPage.jsx b/src/pages/GrandHallPage/GrandHallPage.jsx
@@ -21,12 +21,12 @@ export default function GrandHallPage({ hall, onBack, onOpenMission }) {
     <main className={`grand-hall-page grand-hall-page--${hall.id}`} style={{ '--hall-color': hall.color }}>
       <nav className="hall-page-nav">
         <button type="button" onClick={onBack}>← 返回序厅</button>
-        <div className="brand"><span className="brand-mark">中</span><span>中国航天<br /><em>数字博物馆 · V5.0</em></span></div>
+        <div className="brand"><span className="brand-mark">中</span><span>中国航天<br /><em>数字博物馆</em></span></div>
         <span>主题展厅 {hall.index}</span>
       </nav>
       <div className="grand-breadcrumb"><span>中国航天发展史</span><b>/</b><strong>{hall.name}</strong></div>
       {Story ? <Story hall={hall} nodes={hall.nodes} missions={missions} onOpenMission={onOpenMission} /> : null}
-      <footer className="footer"><span>中国航天发展史数字博物馆</span><span>{hall.name} · V5.0 主题展厅</span></footer>
+      <footer className="footer"><span>中国航天发展史数字博物馆</span><span>{hall.name} · 主题展厅</span></footer>
     </main>
   )
 }

diff --git a/src/components/DevelopmentLines/DevelopmentLines.jsx b/src/components/DevelopmentLines/DevelopmentLines.jsx
@@ -1,7 +1,7 @@
 import { useState } from 'react'
 import developmentLines from '../../data/developmentLines.json'
 
-const years = ['1956', '1970', '1992', '2003', '2007', '2020', '2022', '2024', '未来']
+const years = ['1956', '1970', '1988', '1992', '2003', '2007', '2013', '2016', '2020', '2021', '2022', '2024', '未来']
 const lanes = [
   { id: 'access-to-space', nodes: [['1956', '航天起步'], ['1970', '长征一号'], ['2016', '长征五号']] },
   { id: 'satellite-applications', nodes: [['1970', '东方红一号'], ['1988', '风云'], ['2020', '北斗三号']] },
@@ -10,7 +10,7 @@ const lanes = [
   { id: 'planetary-exploration', nodes: [['2020', '天问一号'], ['2021', '祝融巡视'], ['未来', '火星采样']] },
 ]
 const laneY = { 'access-to-space': 58, 'satellite-applications': 116, 'human-spaceflight': 174, 'lunar-exploration': 232, 'planetary-exploration': 290 }
-const xForYear = (year) => 88 + years.indexOf(String(year)) * 103
+const xForYear = (year) => 60 + Math.max(0, years.indexOf(String(year))) * 75
 
 export default function DevelopmentLines({ onEnter }) {
   const [hovered, setHovered] = useState(null)

diff --git a/src/components/Timeline/Timeline.jsx b/src/components/Timeline/Timeline.jsx
@@ -35,7 +35,7 @@ export default function Timeline({ category, compact = false }) {
       <div className="section-heading">
         <span className="section-kicker">共同时间底座 · {String(items.length).padStart(2, '0')} 个节点</span>
         <h2>{compact ? '中国航天关键时刻' : '七十年，向星河深处。'}</h2>
-        <p>{compact ? '六个跨主线时刻，串起五条发展路径。' : '向下滚动，让关键年份依次点亮。'}</p>
+        <p>{compact ? '六个节点，串起五条发展路径；主展项与支撑节点各有位置。' : '向下滚动，让关键年份依次点亮。'}</p>
       </div>
       {compact ? <div className="timeline-compact-grid">{items.map((item) => <article data-emphasis={primaryCompactIds.has(item.id) ? 'major' : 'supporting'} key={item.id}><time>{item.year}</time><h3>{item.title}</h3><p>{item.description}</p></article>)}</div> : null}
       {!compact ? (

diff --git a/docs/iterations/v5.0-rc3.1-pc.md b/docs/iterations/v5.0-rc3.1-pc.md
@@ -1,0 +1,54 @@
+# V5.0-RC3.1-PC 策展与内容深化记录
+
+## 本轮定位
+
+本轮承接 `v5.0-rc2-pc`，继续只维护 `1600×900` PC 桌面端。移动端、平板端和响应式重构冻结；本轮不修改一键启动器，不新增未经授权的本地媒体，不创建正式 `v5.0` Tag。
+
+目标是把 RC2 的页面结构再向“中国航天发展史数字博物馆”推进一层：首页承担序厅导言，五条主线和五个展厅承担不同的历史叙事，事实信息与展品关系优先于页面装饰。
+
+## RC3 审计结论
+
+- `main` 与 `origin/main` 在 `84566563a92855ca6e310157c5ac4e9d1dc43394` 一致，工作树干净。
+- 现有五个 Grand Hall Story 已经是独立组件；进入太空、天基中国、人在太空、奔向月球、走向行星分别使用运力、应用、章节、路线和距离叙事。
+- 旧版主线年份轴漏掉 1988、2013、2016、2021，导致部分节点不能落在正确年份位置；首页时间线的主次样式也与数据标记不一致。
+- RC2 基线构建与浏览器基线没有发现 console error、同源 404、broken image 或横向溢出；六张 PC 截图继续作为人工验收依据。
+
+## 本轮完成
+
+### 首页与共同底座
+
+- 增加“入馆导言”，用 1956、1970、2003、2024 四个尺度变化作为序厅阅读入口。
+- 将主线年份轴补齐到实际关键节点，修复节点落在轴外的问题。
+- 时间线主展项改由 `data-emphasis` 数据标记控制，弱化支撑节点，避免依赖卡片顺序。
+- 技术底座从五项并列名片改为“能力 + 支撑关系”阅读，保留运载、测控、导航、材料与制造、空间科学五个方向。
+- 去除普通阅读界面中的 `V5.0`、RC 等开发阶段痕迹，版本信息留在迭代文档和变更记录中。
+
+### 五个主题展厅
+
+- 进入太空：在火箭谱系后增加“高度—运力—轨道—任务”因果链，长征五号仍为大推力主展项，长征二号 F 保持载人高可靠配套位置。
+- 天基中国：移除主叙事中的卫星网络仪表盘，改为“我在哪里？/ 天气正在发生什么？/ 从太空能看清什么？”三个生活问题，分别落到北斗、风云和高分；媒体仍按既有来源策略展示。
+- 人在太空：在三章能力路线后增加三位与节点直接相关的航天员，以杨利伟、翟志刚和景海鹏作为历史语境中的少量人物，不展开人物百科。
+- 奔向月球：保留“绕—落—回”主路线和月背支路，补充嫦娥六号于 2024 年从月球背面带回 1935.3 克样品的事实及中国国家航天局来源入口。
+- 走向行星：在地球—转移轨道—火星—更远深空尺度图后补充“发射窗口—通信时延—自主运行”三项工程变化，不虚构具体时延数值。
+
+## 资料与来源
+
+- 神舟五号、杨利伟和首次载人飞行： [中国载人航天工程官网任务专题](https://www.cmse.gov.cn/fxrw/szwh/)。
+- 神舟七号出舱： [中国载人航天工程官网视频资料](https://www.cmse.gov.cn/fxrw/szqhrw/spjj/)。
+- 嫦娥六号月背采样返回与 1935.3 克样品： [中国国家航天局任务资料](https://www.cnsa.gov.cn/n6758823/n6758844/n10518102/n10518157/c10570691/content.html)。
+- 北斗三号及其服务： [北斗卫星导航系统官方网站](https://www.beidou.gov.cn/yw/xwzx/202008/t20200801_20889.html)。
+- 本轮没有下载新图片、视频、脚本、程序或依赖；现有 link-only 媒体与开放许可素材登记保持不变。
+
+## 验收
+
+- `npm.cmd run build`：通过；保留既有 SpaceScene 大 chunk 警告，没有新增构建错误。
+- `npm.cmd run screenshots`：通过；只生成 `docs/screenshots/review/latest/` 下六张 `1600×900` PC fullPage PNG。
+- Edge 浏览器 QA：首页、五个 Grand Hall 和旧 `#/hall/shenzhou5` 路由均返回 200；无页面运行时错误、console error、同源 4xx、横向溢出或自然宽度为 0 的图片。
+- 交互抽查：选择主线滚动、主线 SVG 键盘 Enter、展厅导览、任务档案、火箭参数展开和外链安全属性保持可用。
+
+## 自审遗留
+
+- 长页面仍然较长，后续只在不牺牲展品阅读顺序的前提下调整垂直节奏。
+- 部分历史素材的授权核验仍需持续维护；本轮不扩大本地媒体范围。
+- 生产构建仍有既有三维场景 chunk 较大的警告，留作独立性能工作，不在 RC3.1 改架构。
+
